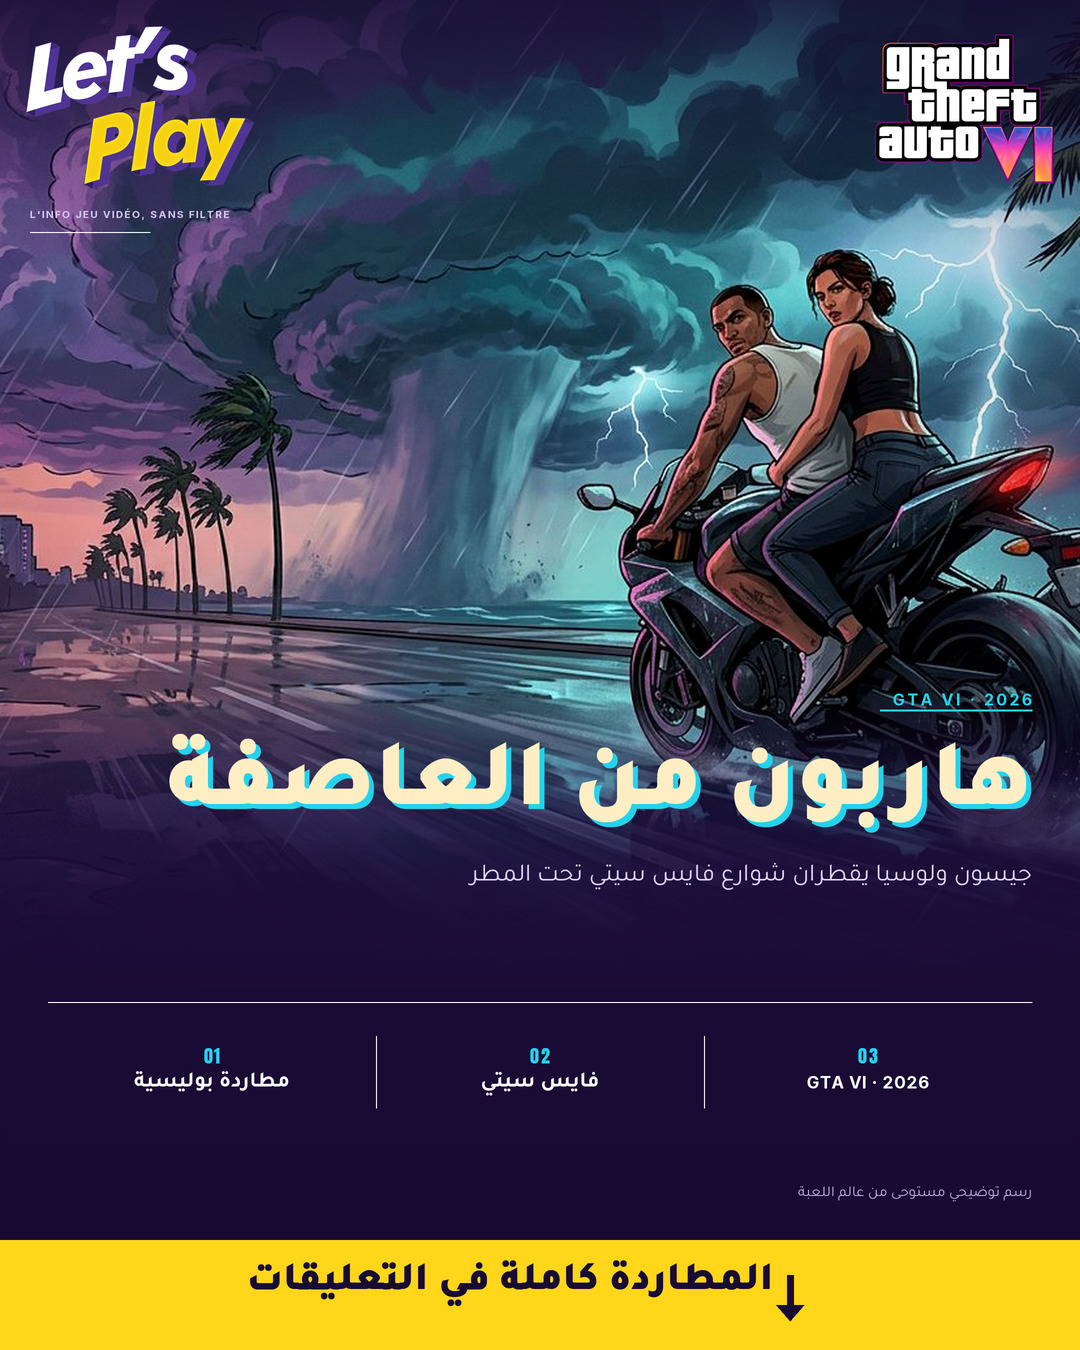
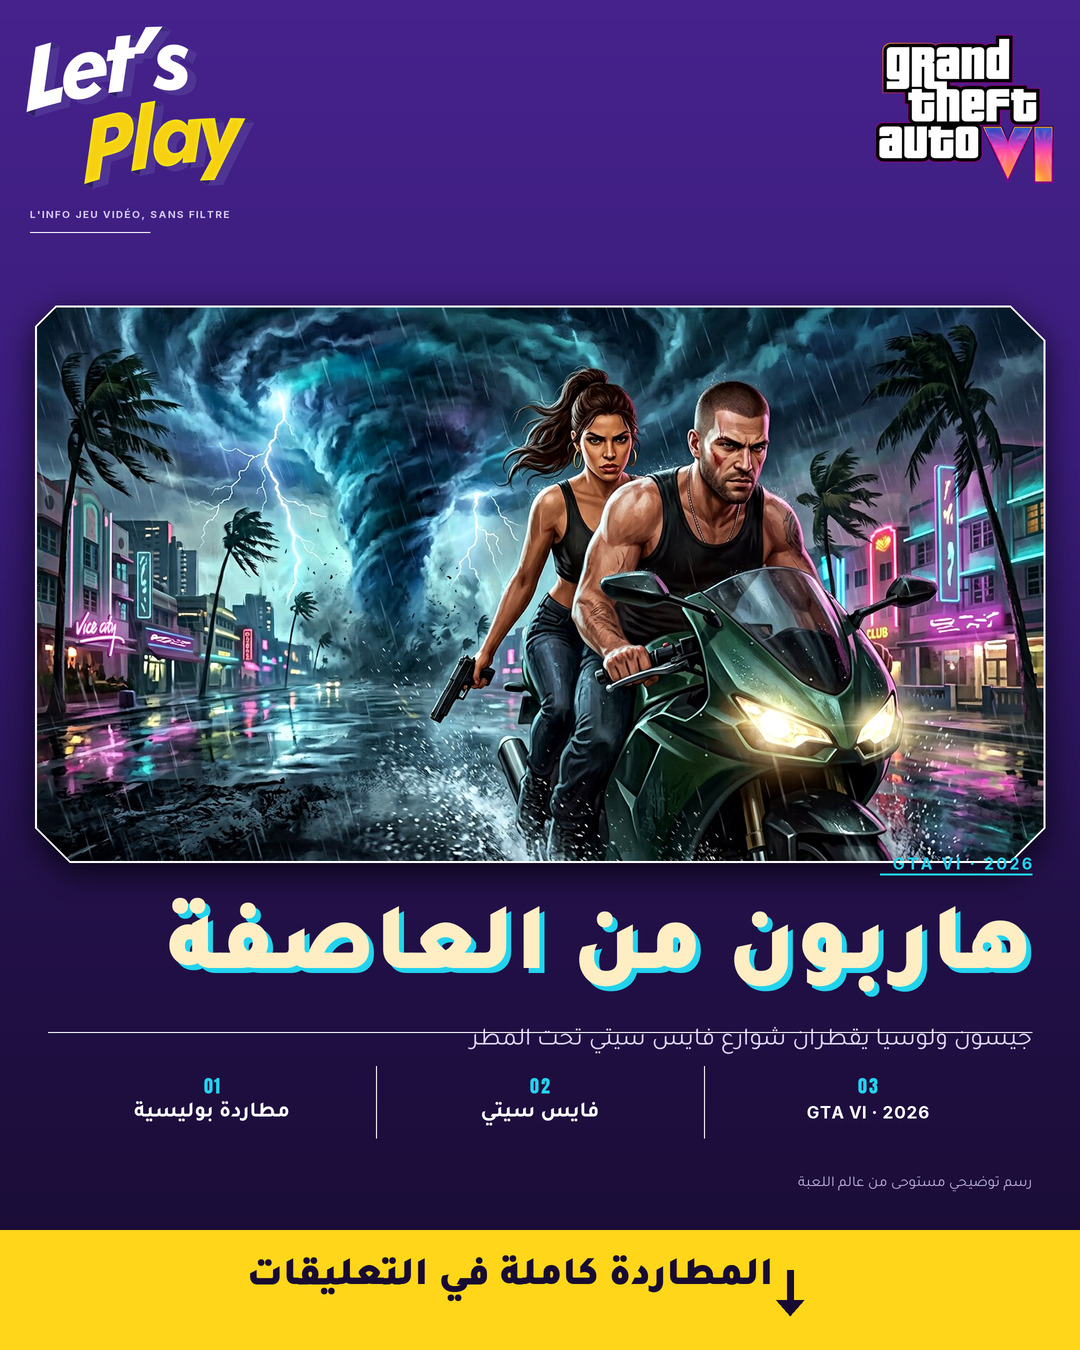
Affiche tempête : nouvelle illustration, orage derrière les héros
Illustration refaite : Jason et Lucia à moto, cyclone et éclairs dans leur dos,
visages plus proches des protagonistes. L'image est montrée entière dans une
fenêtre 16:9 à coins coupés plutôt que recadrée, pour ne plus amputer les
visages.

diff --git a/scripts/visuels/make_gta_storm_45.py b/scripts/visuels/make_gta_storm_45.py
@@ -62,10 +62,10 @@ AR = {
 }
 
 MARGIN = 48
-PHOTO_BOTTOM = 1000       # l'illustration se dissout jusqu'ici
-TITLE_Y = 742
-FACTS_Y = 1042
-CTA_TOP = 1240
+WINDOW = (36, 306, 1044, 862)   # fenêtre 16:9 à coins coupés       # l'illustration se dissout jusqu'ici
+TITLE_Y = 906
+FACTS_Y = 1072
+CTA_TOP = 1230
 
 TITLE = "هاربون من العاصفة"
 SUBTITLE = "جيسون ولوسيا يقطران شوارع فايس سيتي تحت المطر"
@@ -117,46 +117,34 @@ def base():
 
 
 def artwork():
-    """Illustration recadrée en 4:5, cadrée sur la moto et l'orage."""
+    """Illustration entière, sans recadrage : les deux visages restent dans le cadre."""
     art = Image.open(ASSETS / "gta6-fuite-tempete.jpg").convert("RGB")
-    target = px(W) / px(PHOTO_BOTTOM)
-    # Recadrage horizontal : les deux héros sont à droite du cadre d'origine.
-    crop_w = round(art.height * target)
-    focus = 0.68
-    left = round((art.width - crop_w) * focus)
-    art = art.crop((left, 0, left + crop_w, art.height))
-    art = art.resize((px(W), px(PHOTO_BOTTOM)), Image.Resampling.LANCZOS)
-    art = ImageEnhance.Color(art).enhance(1.08)
-    art = ImageEnhance.Contrast(art).enhance(1.05)
+    w, h = WINDOW[2] - WINDOW[0], WINDOW[3] - WINDOW[1]
+    art = art.resize((px(w), px(h)), Image.Resampling.LANCZOS)
+    art = ImageEnhance.Color(art).enhance(1.06)
+    art = ImageEnhance.Contrast(art).enhance(1.04)
     return art
 
 
 def blend_art(im, art):
-    """Bas de l'illustration fondu dans l'encre, bords latéraux adoucis."""
-    mask = Image.new("L", (1, art.height), 255)
-    d = ImageDraw.Draw(mask)
-    band = px(300)
-    for i in range(band):
-        d.point((0, art.height - 1 - i), fill=round(255 * (i / band) ** 1.5))
-    mask = mask.resize(art.size, Image.BILINEAR)
-    im.paste(art, (0, 0), mask.filter(ImageFilter.GaussianBlur(px(2))))
+    """Fenêtre à coins coupés, ombre portée et liseré clair."""
+    x0, y0, x1, y1 = WINDOW
+    cut = 34
+    poly = [(x0 + 20, y0), (x1 - cut, y0), (x1, y0 + cut),
+            (x1, y1 - cut), (x1 - cut, y1), (x0 + cut, y1),
+            (x0, y1 - cut), (x0, y0 + 20)]
+    mask = Image.new("L", (px(W), px(H)), 0)
+    ImageDraw.Draw(mask).polygon([(px(a), px(b)) for a, b in poly], fill=255)
 
-    # Voile haut (bandeau de marque) et voile bas (titre + infos).
-    w, h = im.size
-    gy = np.linspace(0, 1, h)[:, None]
-    veil = np.zeros((h, w, 4), dtype=float)
-    veil[..., :3] = np.array(INK)
-    veil[..., 3] = np.clip((0.20 - gy) / 0.20, 0, 1) ** 1.4 * 200
-    im.alpha_composite(Image.fromarray(np.uint8(veil), "RGBA"))
+    shadow = Image.new("RGBA", im.size, (0, 0, 0, 0))
+    shadow.paste((6, 2, 16, 220), (0, 0), mask)
+    im.alpha_composite(shadow.filter(ImageFilter.GaussianBlur(px(16))), (0, px(10)))
 
-    veil[..., 3] = np.clip((gy - 0.575) / 0.16, 0, 1) ** 1.2 * 225
-    im.alpha_composite(Image.fromarray(np.uint8(veil), "RGBA"))
-
-    # Vignettage léger : les coins s'éteignent, l'orage gagne en relief.
-    yy, xx = np.mgrid[0:h, 0:w].astype(float)
-    r = np.sqrt(((xx - w / 2) / (w / 2)) ** 2 + ((yy - h * 0.34) / (h / 2)) ** 2)
-    veil[..., 3] = np.clip((r - 0.62) / 0.8, 0, 1) ** 1.5 * 130
-    im.alpha_composite(Image.fromarray(np.uint8(veil), "RGBA"))
+    canvas = Image.new("RGBA", im.size, (0, 0, 0, 0))
+    canvas.paste(art, (px(x0), px(y0)))
+    im.paste(canvas, (0, 0), mask)
+    ImageDraw.Draw(im).line([(px(a), px(b)) for a, b in poly] + [(px(poly[0][0]), px(poly[0][1]))],
+                            fill=(255, 255, 255, 80), width=px(2))
 
 
 def header(im):
